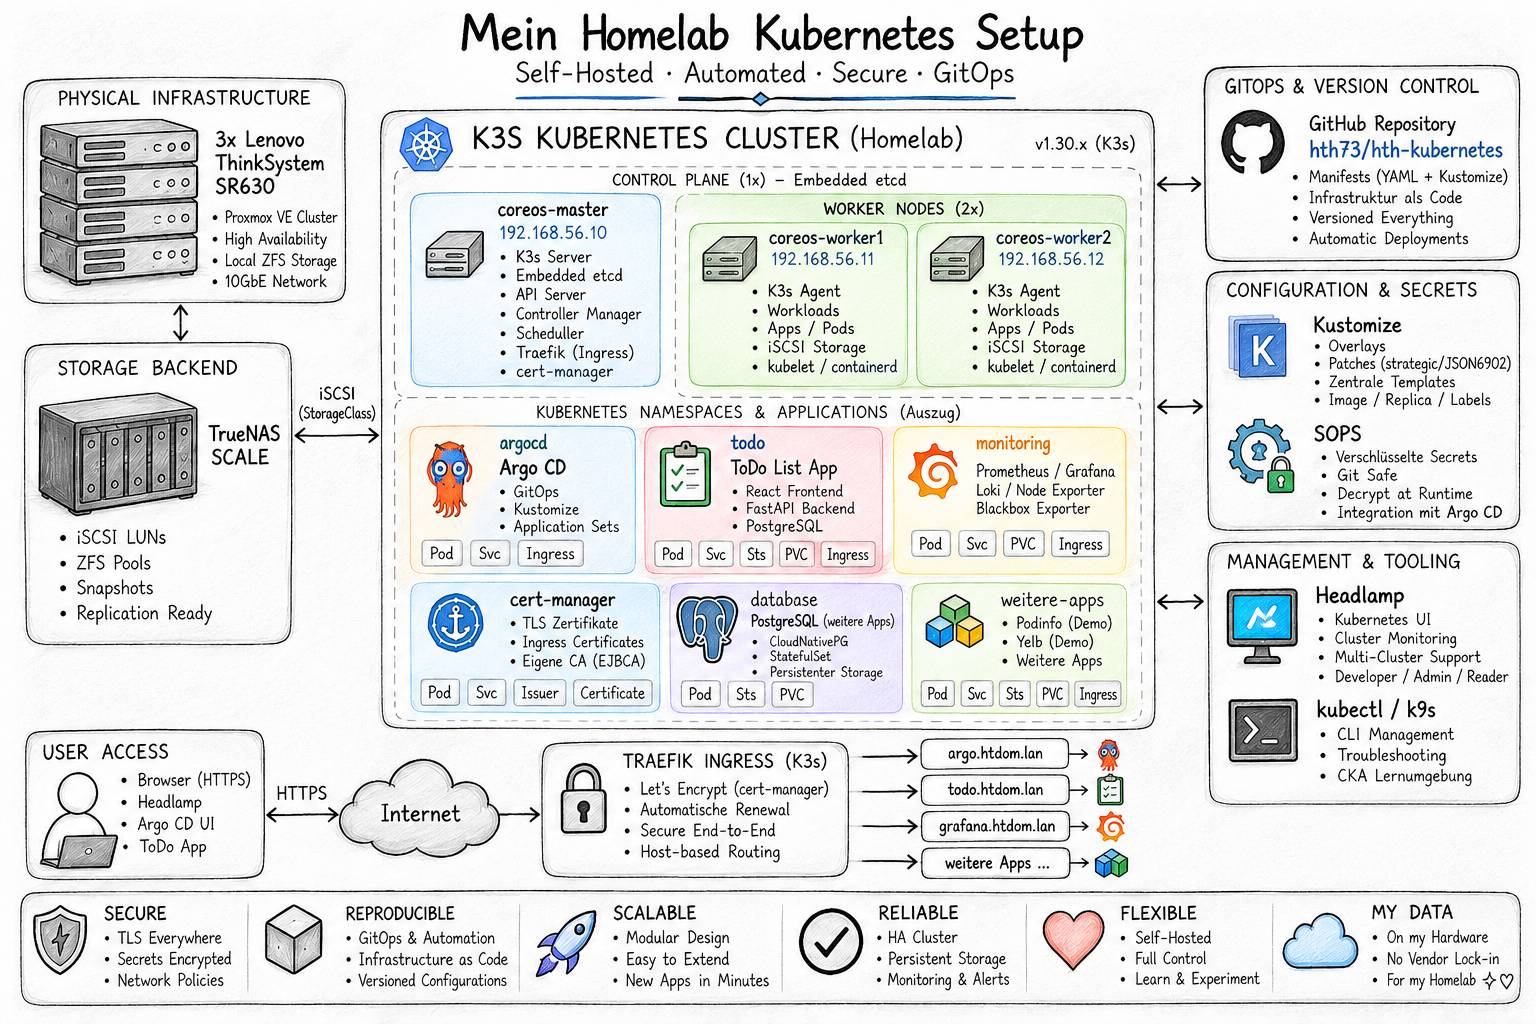
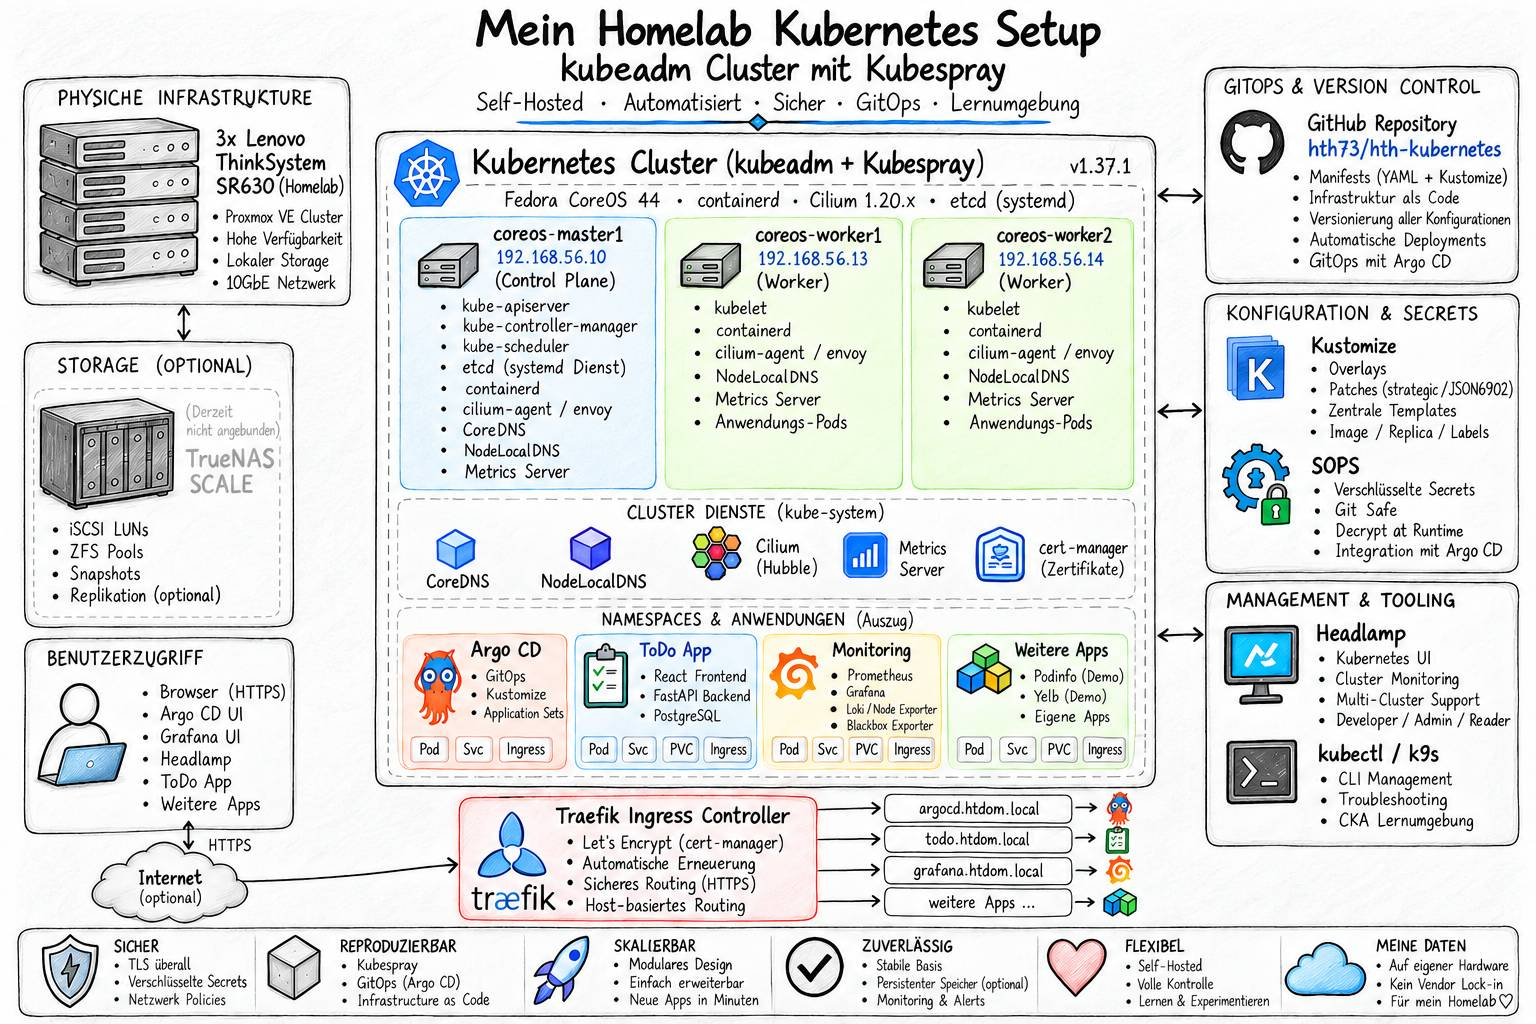
add k8s setup to the repo

diff --git a/README_k8s.md b/README_k8s.md
@@ -1,0 +1,192 @@
+# Kubernetes Clusters from Scratch with kubespray
+
+<p>
+  <img src="images/k8s_setup.jpg" width="50%" height="50%" />
+</p>
+
+<img src="https://img.shields.io/badge/VirtualBox-2F61B4?style=flat&logo=virtualbox&labelColor=ffffff&logoColor=2F61B4" /> <img src="https://img.shields.io/badge/Fedora%20CoreOS-51A2DA?style=flat&logo=fedora&labelColor=ffffff&logoColor=5277C3" /> <img src="https://img.shields.io/badge/Kubespray-3D647F?style=flat&logo=kubespray&labelColor=ffffff&logoColor=3D647F" /> <img src="https://img.shields.io/badge/Ansible-d5000e?logo=ansible&logoColor=white&style=flat" /> <img src="https://img.shields.io/badge/Kubernetes-326CE5?style=flat&logo=kubernetes&labelColor=ffffff&logoColor=326CE5" /> <img src="https://img.shields.io/badge/Cilium-F8C517?style=flat&logo=cilium&labelColor=ffffff&logoColor=F8C517" />
+
+Diese Dokumentation beschreibt den reproduzierbaren Aufbau eines Kubernetes Clusters auf Fedora CoreOS mit [Kubespray](https://github.com/kubernetes-sigs/kubespray).
+
+Die Anwendungsmanifeste und GitOps liegen im Repository
+[`hth-kubernetes`](https://github.com/hth73/hth-kubernetes).
+
+Die Clusterbereitstellung und Kubespray Integration werden im Repository
+[`hth-ansible-wks`](https://github.com/hth73/hth-ansible-wks) verwaltet.
+
+## Umgebung
+
+| Knoten           | Rolle                  | IP-Adresse |
+| :-------         | :------                | :------- |
+| `coreos-master1` | Control Plane und etcd | `192.168.56.10`   |
+| `coreos-worker1`   | Worker               | `192.168.56.13`   |
+| `coreos-worker2`   | Worker               | `192.168.56.14`   |
+                  
+Aktueller Stand:
+- Fedora CoreOS `44.20260928.3.2`
+- Kubernetes `v1.37.1`,
+- containerd und Cilium. 
+
+Das Cluster verwendet Cilium Native Routing,
+WireGuard-Verschlüsselung und Hubble.
+- Pod-CIDR: `172.16.0.0/16`;
+- Service-CIDR: `10.96.0.0/12`.
+
+## 1. Provisionierungs-Repository vorbereiten
+
+Repository klonen und das Kubespray-Submodul initialisieren:
+
+``` bash
+git clone https://github.com/hth73/hth-ansible-wks.git
+cd hth-ansible-wks
+git submodule update --init --recursive
+```
+
+Kubespray liegt als Upstream Git Submodul unter `kubespray/upstream`.
+Das eigene Inventory und die Konfiguration bleiben außerhalb dieses
+Verzeichnisses, damit Updates des Upstreams die Konfiguration nicht
+überschreiben.
+
+## 2. Ansible-Umgebung einrichten
+
+Für Kubespray wird eine eigene Python-Umgebung verwendet:
+
+``` bash
+mkdir -p ~/.venvs
+python3 -m venv ~/.venvs/kubespray
+source ~/.venvs/kubespray/bin/activate
+python -m pip install --upgrade pip
+python -m pip install -r kubespray/upstream/requirements.txt
+```
+
+Die Datei `.envrc` im Repository setzt die Kubespray-Pfade und die
+Ansible Umgebung. Bei Verwendung von `direnv` im
+Repository-Stammverzeichnis ausführen:
+
+``` bash
+direnv allow
+```
+
+Erwartete Struktur der eigenen Konfiguration:
+
+``` text
+inventory/kubespray/
+├── hosts.ini
+├── group_vars/
+│   └── k8s_cluster/
+│       ├── k8s-cluster.yml
+│       └── k8s-net-cilium.yml
+└── credentials/
+    └── kubeadm_certificate_key.creds  # lokales Geheimnis, nicht committen
+```
+
+Das Inventory definiert die drei Knoten, den SSH-Zugang (`core`) und die
+Kubernetes-Gruppen `kube_control_plane`, `kube_node`, `etcd` und
+`k8s_cluster`. Die Variablen unter `group_vars` legen
+Kubernetes-Version, Container-Runtime, Netzwerkbereiche und
+Cilium-Konfiguration fest.
+
+## 3. Vor der Bereitstellung prüfen
+
+Die folgenden Befehle im Stammverzeichnis von `hth-ansible-wks`
+ausführen, während die virtuelle Umgebung aktiv ist:
+
+``` bash
+ansible --version
+ansible-inventory -i "$KUBESPRAY_INVENTORY" --graph
+ansible -i "$KUBESPRAY_INVENTORY" all -m ping
+ansible-playbook -i "$KUBESPRAY_INVENTORY" "$KUBESPRAY_DIR/cluster.yml" --syntax-check
+ansible-playbook -i "$KUBESPRAY_INVENTORY" "$KUBESPRAY_DIR/cluster.yml" --list-hosts
+```
+
+Fehler bei Inventory, SSH-Verbindungen oder Syntax vor dem vollständigen
+Playbook-Lauf beheben.
+
+## 4. Cluster aufbauen
+
+``` bash
+ansible-playbook -i "$KUBESPRAY_INVENTORY" "$KUBESPRAY_DIR/cluster.yml" -b -v
+```
+
+Kubespray installiert und konfiguriert Kubernetes, containerd, etcd,
+CoreDNS und das ausgewählte CNI. In dieser Umgebung läuft etcd als
+systemd-Dienst auf `coreos-master1`. Deshalb erscheint etcd nicht in der
+Ausgabe von `kubectl get pods -A`. Auf den Workern stellt `nginx-proxy`
+die Verbindung zum Kubernetes-API-Server bereit. Dieser Proxy ist kein
+Ingress-Controller für Anwendungen wie Traefik.
+
+## 5. Clusterzustand prüfen
+
+Auf einem Rechner mit funktionierendem kubeconfig ausführen:
+
+``` bash
+kubectl get nodes -o wide
+kubectl get pods -A
+kubectl -n kube-system get pods -o wide
+kubectl get ciliumendpoints -A
+```
+
+Erwartetes Ergebnis: Alle drei Knoten stehen auf `Ready`; Cilium, Cilium
+Operator, CoreDNS und die aktivierten Hubble-Komponenten laufen.
+
+etcd auf dem Control-Plane-Knoten prüfen:
+
+``` bash
+sudo systemctl status etcd
+sudo etcdctl member list -w table
+```
+
+Wenn `etcdctl` explizite TLS-Parameter benötigt, die tatsächliche
+Dienstkonfiguration und die Zertifikatpfade prüfen, statt feste
+Dateinamen anzunehmen:
+
+``` bash
+sudo systemctl cat etcd
+sudo ls -la /etc/ssl/etcd/ssl/
+```
+
+## 6. Kubespray aktualisieren
+
+Änderungen im Upstream vor einem Update prüfen. Eine neuere
+Kubespray-Version kann Standardwerte oder Kompatibilitäten ändern.
+
+``` bash
+cd kubespray/upstream
+git status
+git switch master
+git pull --ff-only
+cd ../..
+
+git add kubespray/upstream
+git commit -m "Update Kubespray submodule"
+git push
+```
+
+Das Haupt Repository speichert den ausgewählten Kubespray Commit. Vor
+einem erneuten Playbook Lauf die Kompatibilität mit Fedora CoreOS,
+Kubernetes und der Cilium-Konfiguration prüfen.
+
+Bei einem frischen Klon stellt `git submodule update --init --recursive`
+genau den Commit wieder her, auf den das Haupt-Repository verweist.
+
+## 7. Cluster zurücksetzen
+
+**Achtung: Dieser Schritt ist destruktiv.** Das Reset Playbook entfernt
+Kubernetes Clusterkomponenten von den Hosts des Inventories. Nur
+ausführen, wenn das Labor bewusst zurückgesetzt werden soll:
+
+``` bash
+ansible-playbook -i "$KUBESPRAY_INVENTORY" "$KUBESPRAY_DIR/reset.yml" -b -v
+```
+
+Anschließend kann das Cluster mit dem Playbook `cluster.yml` erneut
+aufgebaut werden.
+
+## Verwandte Repositories
+
+-   [hth-kubernetes](https://github.com/hth73/hth-kubernetes) ---
+    Kubernetes-Anwendungen und Manifeste.
+-   [hth-ansible-wks](https://github.com/hth73/hth-ansible-wks) ---
+    Ansible-Setup, Inventory und Kubespray-Integration.
+-   [Kubespray Upstream](https://github.com/kubernetes-sigs/kubespray)
+    --- Automatisierung der Kubernetes-Clusterbereitstellung.

diff --git a/README_k3s.md b/README_k3s.md
@@ -1,7 +1,7 @@
 # Kubernetes Clusters with K3s
 
 <p>
-  <img src="images/k8s_setup.jpg" width="50%" height="50%" />
+  <img src="images/k3s_setup.jpg" width="50%" height="50%" />
 </p>
 
 <img src="https://img.shields.io/badge/VirtualBox-2F61B4?style=flat&logo=virtualbox&labelColor=ffffff&logoColor=2F61B4" /> <img src="https://img.shields.io/badge/Fedora%20CoreOS-51A2DA?style=flat&logo=fedora&labelColor=ffffff&logoColor=5277C3" /> <img src="https://img.shields.io/badge/Kubernetes-326CE5?style=flat&logo=kubernetes&labelColor=ffffff&logoColor=326CE5" /> <img src="https://img.shields.io/badge/Cilium-F8C517?style=flat&logo=cilium&labelColor=ffffff&logoColor=F8C517" /> <img src="https://img.shields.io/badge/Traefik-24A1C1?style=flat&logo=traefikproxy&labelColor=ffffff&logoColor=24A1C1" /> <img src="https://img.shields.io/badge/Cert%20Manager-326CE5?style=flat&logo=kubernetes&labelColor=ffffff&logoColor=326CE5" /> <img src="https://img.shields.io/badge/Headlamp-326CE5?style=flat&logo=kubernetes&labelColor=ffffff&logoColor=326CE5" /> <img src="https://img.shields.io/badge/ArgoCD-EF7B4D?style=flat&logo=argo&labelColor=ffffff&logoColor=EF7B4D" /> <img src="https://img.shields.io/badge/Helm-0F1689?style=flat&logo=helm&labelColor=ffffff&logoColor=0F1689" /> <img src="https://img.shields.io/badge/TrueNAS-0095D5?style=flat&logo=truenas&labelColor=ffffff&logoColor=0095D5" /> <img src="https://img.shields.io/badge/SOPS-3e484d?style=flat&logo=gnuprivacyguard&labelColor=ffffff&logoColor=3e484d" />

diff --git a/README.md b/README.md
@@ -10,7 +10,7 @@
 ### Inhaltsverzeichnis
 
 * [Kubernetes Clusters with K3s](README_k3s.md)
-* [Kubernetes Clusters from Scratch](README_scratch.md)
+* [Kubernetes Clusters from Scratch](README_k8s.md)
 
 ---
 
